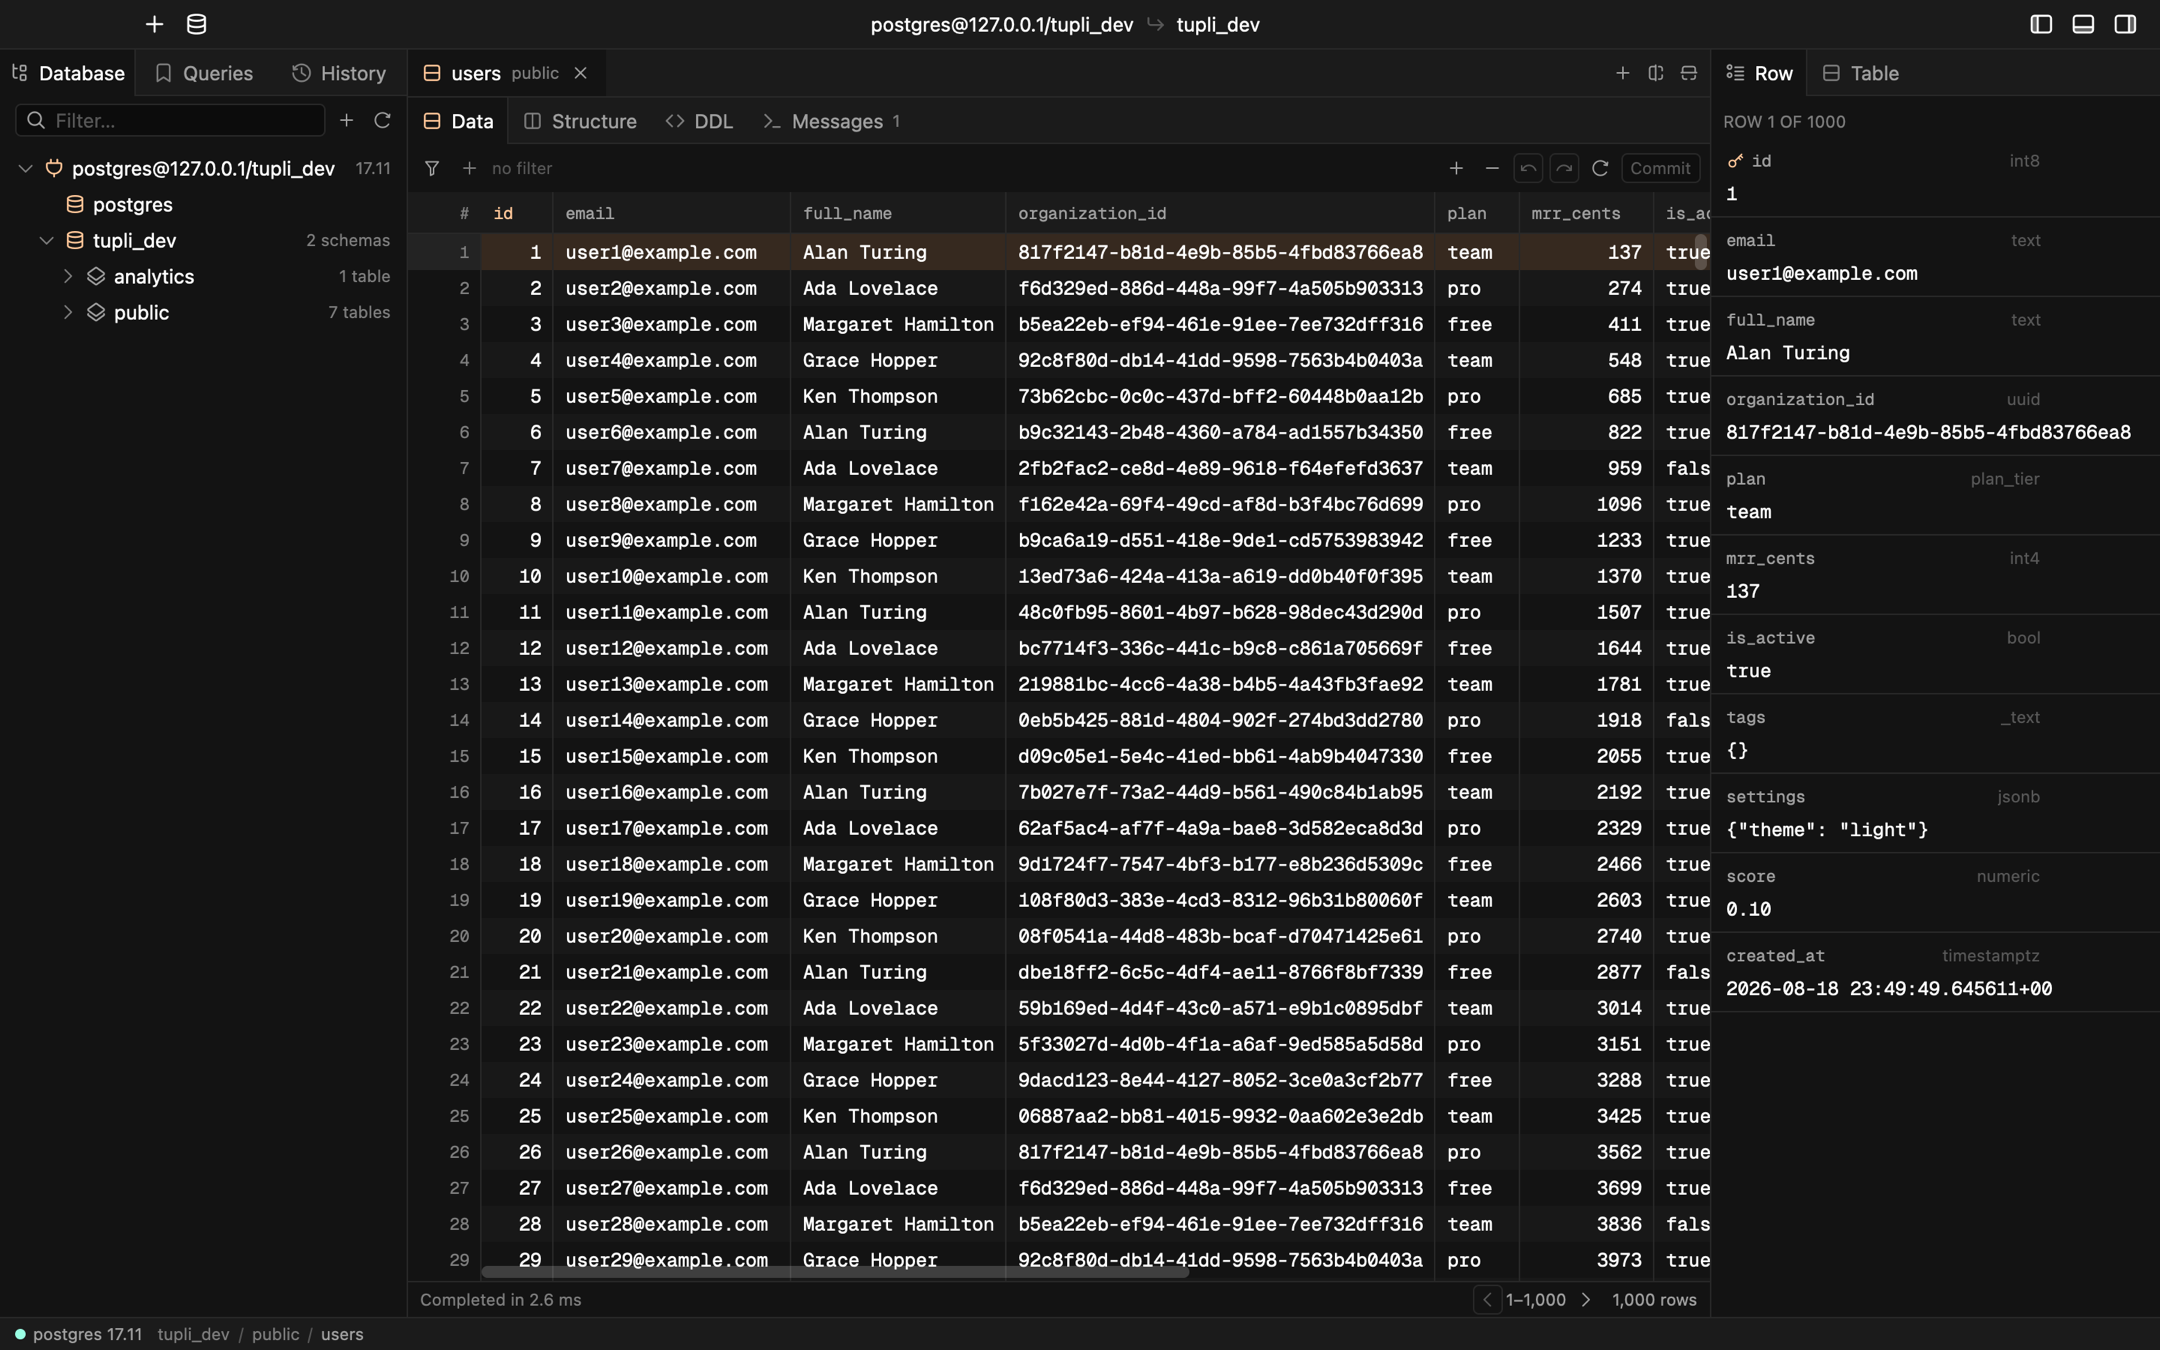
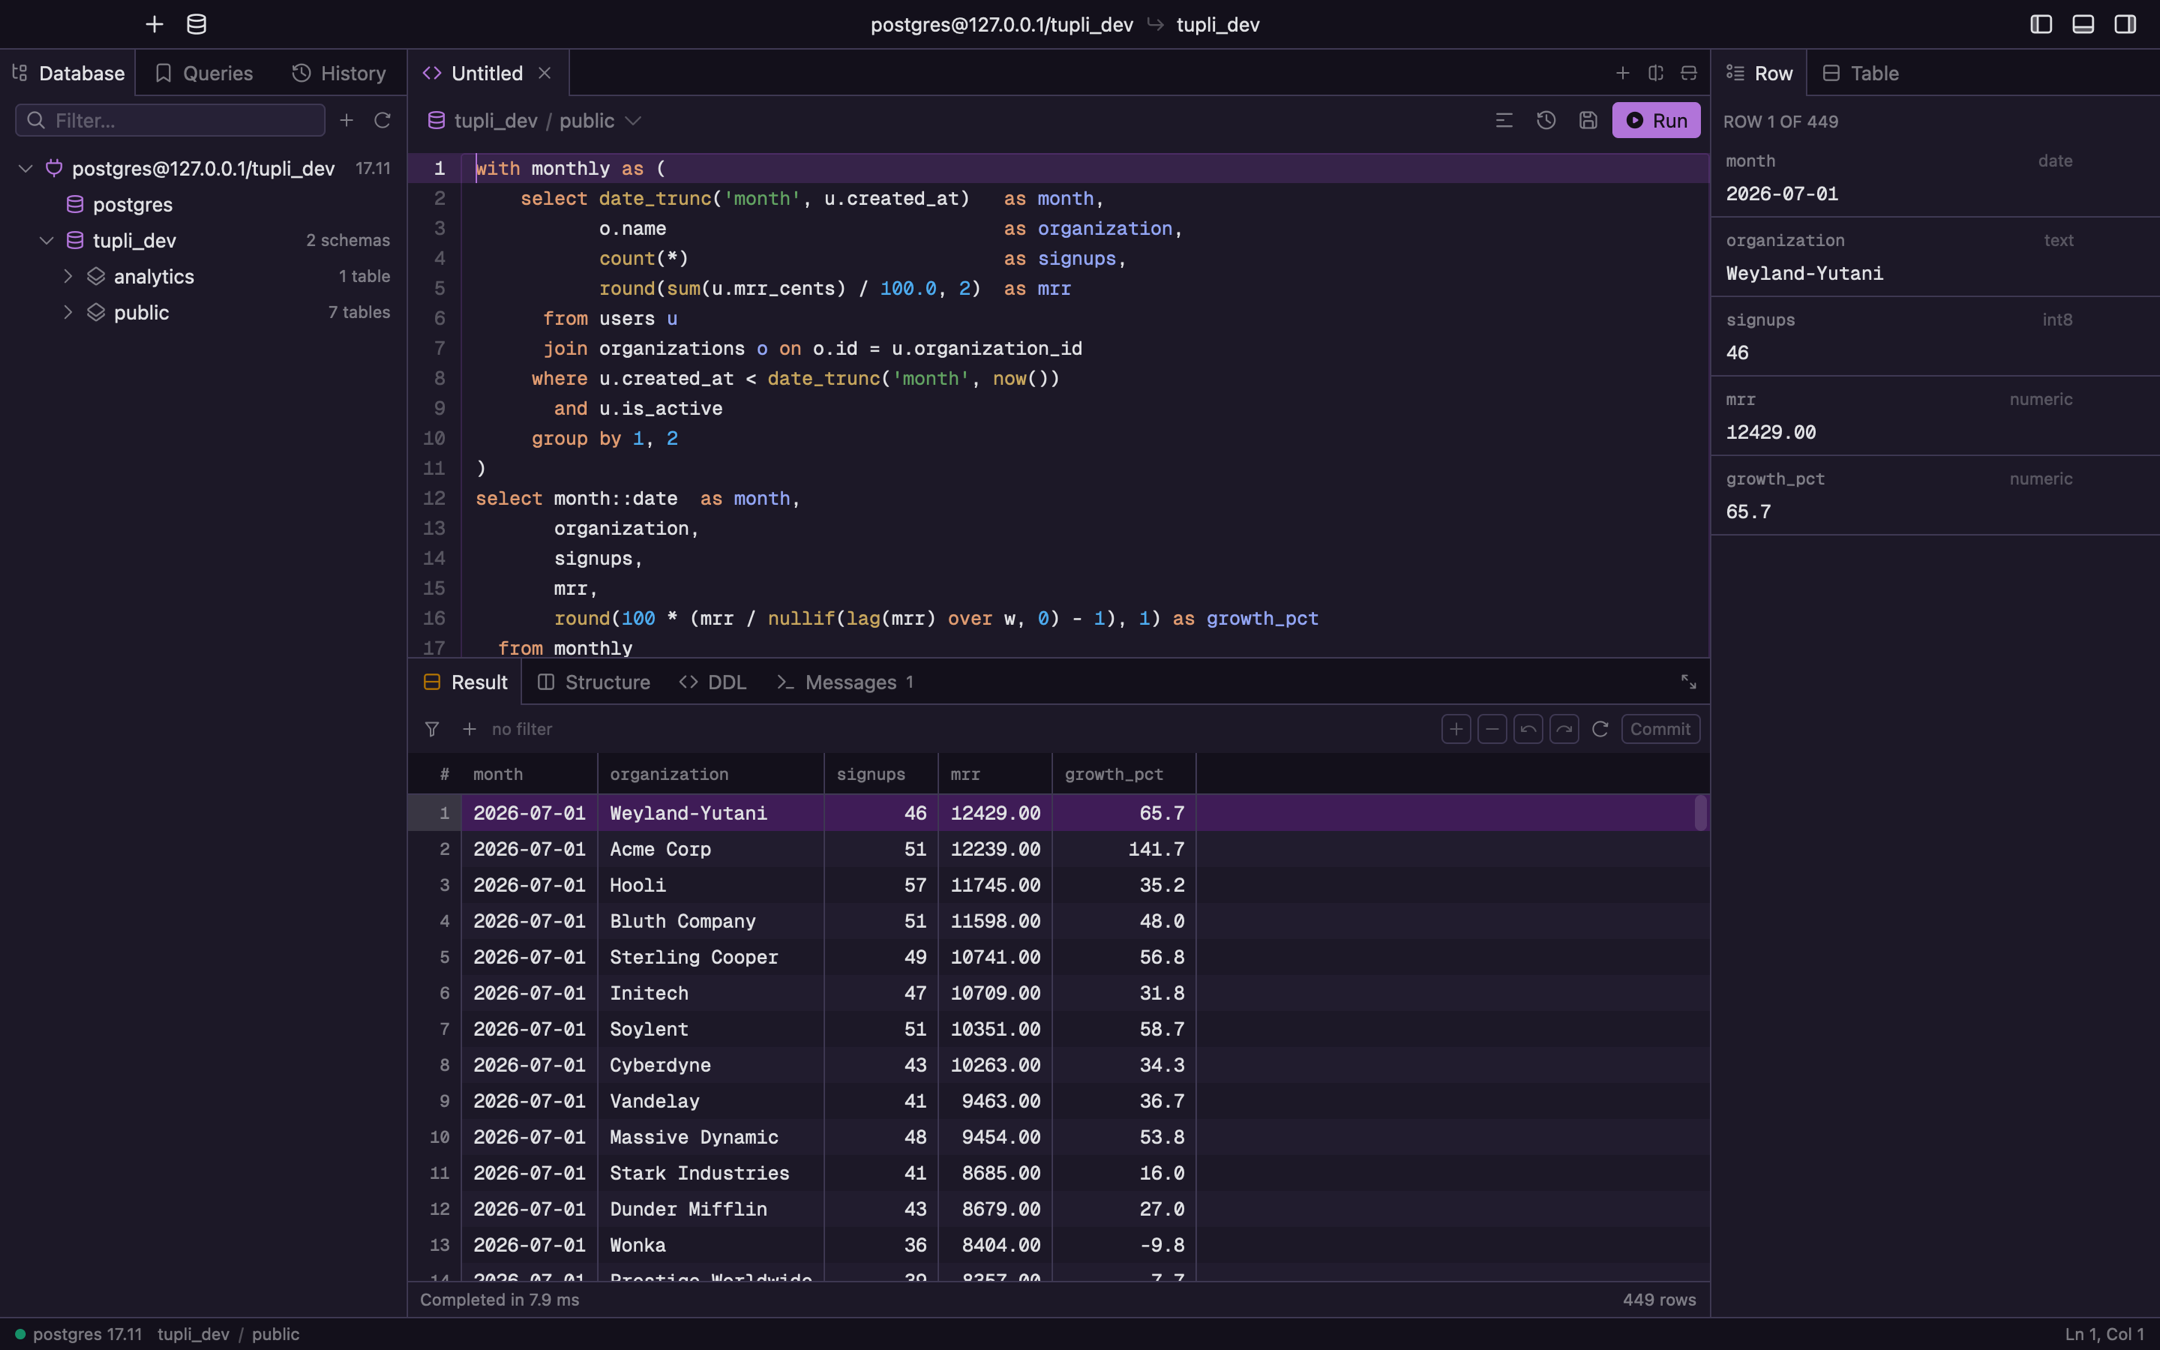
A better README screenshot, and an honest note about the driver layer
The old frame browsed public.users, which showed the grid and nothing else.
This one runs a real analytic query — CTE, window function, 449 rows in
8 ms — so the editor, the result dock and the row inspector all say
something. TUPLI_DOCK sizes the results pane for the shot.

The README claimed nothing above db knows what a Postgres is. Not true yet:
db_pg is named in session.rs and connection_sheet.rs. Says so now.

The icon tools carried absolute paths from the machine they were written on
and the Nucleo licence key in prose; both are environment variables now.

diff --git a/crates/tupli/examples/screenshot.rs b/crates/tupli/examples/screenshot.rs
@@ -144,6 +144,23 @@ fn main() {
             cx.run_until_parked();
         }
 
+        // `TUPLI_DOCK=<px>` sets the height of the results dock. A frame taken
+        // for a README wants the rows to carry it, and the saved layout has no
+        // opinion about that — a fresh profile opens on whatever the default
+        // is, which splits the centre evenly between typing and reading.
+        if let Ok(height) = std::env::var("TUPLI_DOCK") {
+            let height: f32 = height.parse().expect("TUPLI_DOCK is a number of pixels");
+            cx.update(|cx| {
+                window
+                    .update(cx, |workspace, _window, cx| {
+                        workspace.dock_height = px(height);
+                        cx.notify();
+                    })
+                    .expect("set the dock height")
+            });
+            cx.run_until_parked();
+        }
+
         // `TUPLI_TYPE=<sql>` puts a statement in the console without sending
         // it, and `TUPLI_FORMAT=1` then presses Format. Together they are the
         // only way to photograph the editor's own behaviour, which owes

diff --git a/README.md b/README.md
@@ -150,8 +150,10 @@ crates/
   tupli       the application: window, panes, sidebar, inspector, commands
 ```
 
-Nothing above `db` knows what a Postgres is. That is the constraint that makes a second
-engine possible, and it is checked by having actually written one.
+`db` holds the shared vocabulary — rows, values, schemas — and everything above the
+drivers is written against it rather than against Postgres. The last mile is not done:
+`db_pg` still shows up by name in a couple of places in the app layer, and a `Driver`
+trait to dispatch through is the next structural piece of work.
 
 ## Developing
 

diff --git a/tools/README.md b/tools/README.md
@@ -28,8 +28,8 @@ it is regenerating the set.
 ### 2. Extract, then curate
 
 ```sh
-node tools/extract_icons.mjs            # edit NM/OUT at the top first
-ICON_SRC=<out dir> node tools/build_icons.mjs
+NUCLEO_MODULES=./node_modules ICON_OUT=/tmp/nucleo-svg node tools/extract_icons.mjs
+ICON_SRC=/tmp/nucleo-svg node tools/build_icons.mjs
 ```
 
 `extract_icons.mjs` renders every React icon component to a plain SVG with
